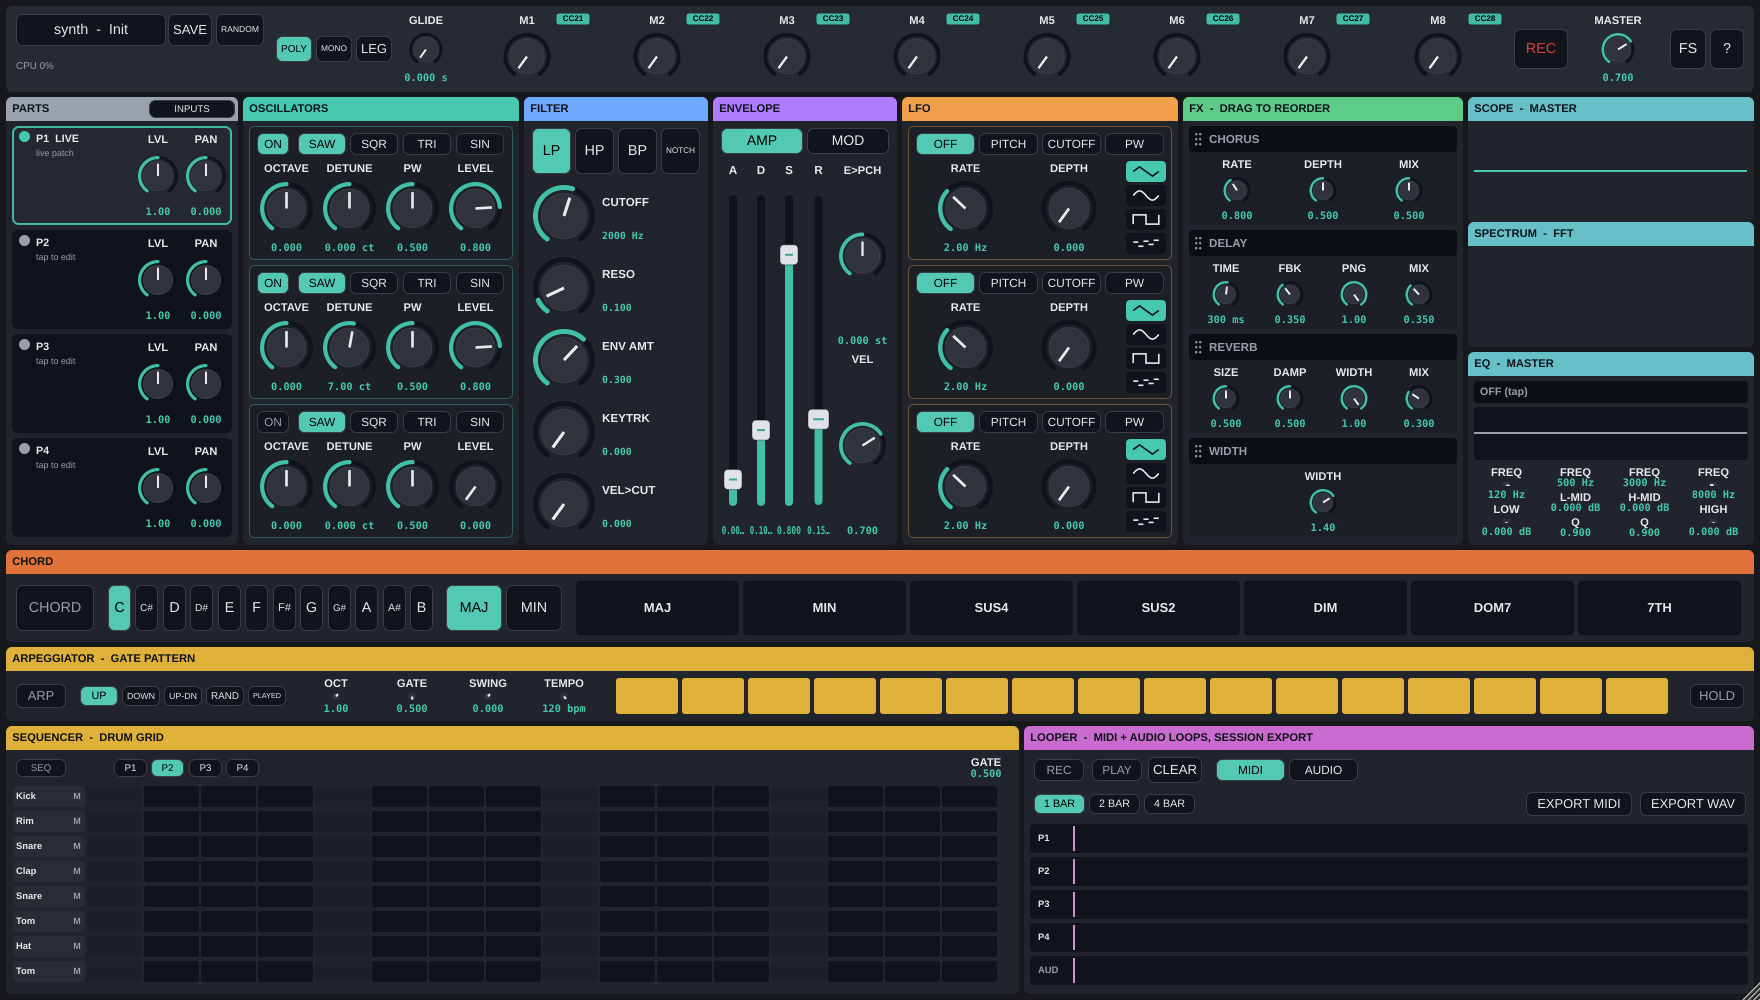
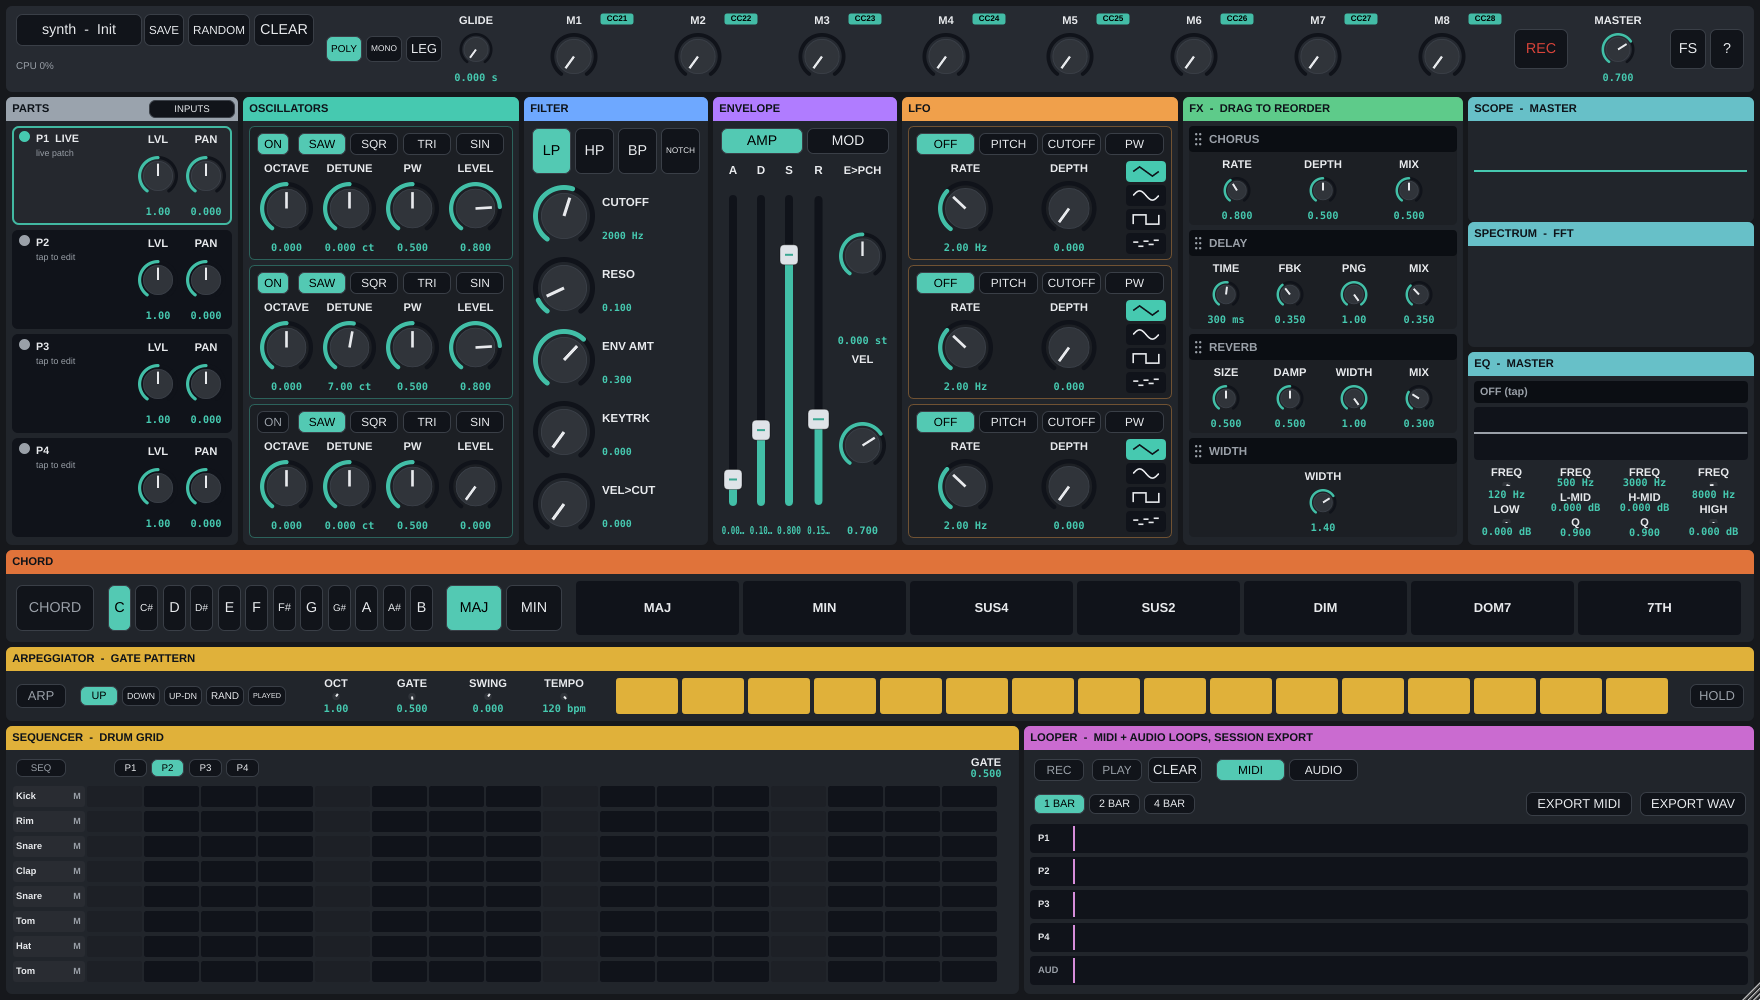
R3 Group 4.3: CLEAR button — blank the selected part to a clean sine
Adds CLEAR next to RANDOM in the top bar. It blanks the SELECTED (edit-focused)
part to a clean single sine: resets that part's sound-design params to default,
then forces osc1=sine with osc2/3 + noise + FX off. Globals, the mixer, macros and
the other parts are left untouched — same scope policy as RANDOM
(clearFocusedPartToBlank iterates soundDesignParamIDs()).

Test: CLEAR yields osc1-on sine, osc2/3/noise/FX off, while master/part-level/macro
stay put. Preset row widened to fit the fourth button.

Gate: run-all-checks 273/273 + pluginval s8 green.

diff --git a/tests/plugin/test_presets.cpp b/tests/plugin/test_presets.cpp
@@ -123,6 +123,35 @@ TEST_CASE ("randomize touches ONLY the selected part sound - mixer / EQ / macros
     REQUIRE (p.apvts.getParameter (ParamID::filterCutoff)->getValue() != Catch::Approx (cutoffBefore).margin (1e-6));
 }
 
+TEST_CASE ("CLEAR blanks the selected part to a single sine, leaving globals put", "[plugin][clear]")
+{
+    juce::ScopedJuceInitialiser_GUI juceInit;
+    VASynthProcessor p;
+    // A busy sound + dialled-in globals the player wants kept.
+    auto set = [&] (const char* id, float v) { p.apvts.getParameter (id)->setValueNotifyingHost (v); };
+    set (ParamID::osc2On, 1.0f); set (ParamID::osc3On, 1.0f); set (ParamID::noiseLevel, 0.4f);
+    set (ParamID::fxReverbOn, 1.0f); set (ParamID::fxDelayOn, 1.0f);
+    set (ParamID::masterGain, 0.42f); set (ParamID::part0Level, 0.7f); set (ParamID::macro3, 0.8f);
+    const float masterBefore = p.apvts.getParameter (ParamID::masterGain)->getValue();
+    const float levelBefore  = p.apvts.getParameter (ParamID::part0Level)->getValue();
+    const float macroBefore  = p.apvts.getParameter (ParamID::macro3)->getValue();
+
+    p.clearFocusedPartToBlank();
+
+    // A clean single sine: osc1 on + sine (last choice), everything else off.
+    REQUIRE (p.apvts.getRawParameterValue (ParamID::osc1On)->load() > 0.5f);
+    REQUIRE (p.apvts.getRawParameterValue (ParamID::osc2On)->load() < 0.5f);
+    REQUIRE (p.apvts.getRawParameterValue (ParamID::osc3On)->load() < 0.5f);
+    REQUIRE (p.apvts.getRawParameterValue (ParamID::noiseLevel)->load() < 1e-4f);
+    REQUIRE (p.apvts.getRawParameterValue (ParamID::fxReverbOn)->load() < 0.5f);
+    REQUIRE (p.apvts.getRawParameterValue (ParamID::fxDelayOn)->load() < 0.5f);
+    REQUIRE (p.apvts.getParameter (ParamID::osc1Wave)->getValue() == Catch::Approx (1.0f).margin (1e-4));
+    // Globals / mixer / macros untouched (same scope as RANDOM).
+    REQUIRE (p.apvts.getParameter (ParamID::masterGain)->getValue()  == Catch::Approx (masterBefore).margin (1e-6));
+    REQUIRE (p.apvts.getParameter (ParamID::part0Level)->getValue() == Catch::Approx (levelBefore).margin (1e-6));
+    REQUIRE (p.apvts.getParameter (ParamID::macro3)->getValue()     == Catch::Approx (macroBefore).margin (1e-6));
+}
+
 TEST_CASE ("master_gain is a performance control excluded from preset load/save", "[plugin][preset][master]")
 {
     juce::ScopedJuceInitialiser_GUI juceInit;

diff --git a/Source/UI/TopBar.h b/Source/UI/TopBar.h
@@ -53,6 +53,15 @@ public:
         };
         addAndMakeVisible (random);
 
+        clear.setButtonText ("CLEAR"); styleBtn (clear);
+        clear.onClick = [this]
+        {
+            proc.clearFocusedPartToBlank();     // blank the selected part to a clean sine
+            currentName = "Blank"; refreshTitle(); refreshMacroLabels();
+            if (restoreFocus) restoreFocus();
+        };
+        addAndMakeVisible (clear);
+
         rec.setButtonText ("REC"); styleBtn (rec);
         rec.setColour (juce::TextButton::textColourOffId, juce::Colour (0xffd8443a));
         rec.onClick = [this] { proc.postToast ("Recording lands with the looper (R3)"); if (restoreFocus) restoreFocus(); };
@@ -109,11 +118,12 @@ public:
     {
         auto tb = getLocalBounds().reduced (10, 7);
 
-        auto preset = tb.removeFromLeft (250); tb.removeFromLeft (8);
+        auto preset = tb.removeFromLeft (300); tb.removeFromLeft (8);
         auto pTop = preset.removeFromTop (34);
-        presetBtn.setBounds (pTop.removeFromLeft (150).reduced (0, 1));
-        save.setBounds   (pTop.removeFromLeft (48).reduced (2, 1));
-        random.setBounds (pTop.reduced (2, 1));
+        presetBtn.setBounds (pTop.removeFromLeft (126).reduced (0, 1));
+        save.setBounds   (pTop.removeFromLeft (44).reduced (2, 1));
+        random.setBounds (pTop.removeFromLeft (66).reduced (2, 1));
+        clear.setBounds  (pTop.reduced (2, 1));
         statusArea = preset;
 
         auto help_ = tb.removeFromRight (34); tb.removeFromRight (4);
@@ -223,7 +233,7 @@ private:
     PresetManager& presets;
     std::function<void()> restoreFocus, toggleHelp, toggleFullscreen;
 
-    juce::TextButton presetBtn, save, random, rec, full, help;
+    juce::TextButton presetBtn, save, random, clear, rec, full, help;
     juce::OwnedArray<RotaryKnob> macros;
     juce::OwnedArray<juce::ParameterAttachment> macroAtt;
     std::unique_ptr<RotaryKnob> master, glide;

diff --git a/Source/PluginProcessor.cpp b/Source/PluginProcessor.cpp
@@ -106,6 +106,23 @@ void VASynthProcessor::loadInitPreset()
     setFxOrder (def);
 }
 
+void VASynthProcessor::clearFocusedPartToBlank()
+{
+    namespace ID = ParamID;
+    auto set01 = [this] (const char* id, float v) { if (auto* p = apvts.getParameter (id)) p->setValueNotifyingHost (v); };
+    // Reset only the SELECTED part's sound-design params to default (the APVTS holds the
+    // edit-focused part's sound; globals + other parts stay put), then force a clean sine.
+    for (auto* rp : getParameters())
+        if (auto* w = dynamic_cast<juce::AudioProcessorParameterWithID*> (rp))
+            if (soundDesignParamIDs().contains (w->paramID))
+                rp->setValueNotifyingHost (rp->getDefaultValue());
+    set01 (ID::osc1On, 1.0f); set01 (ID::osc1Wave, 1.0f);          // osc1 sine (last of saw/sqr/tri/sin)
+    set01 (ID::osc2On, 0.0f); set01 (ID::osc3On, 0.0f);            // single oscillator
+    set01 (ID::noiseLevel, 0.0f);
+    set01 (ID::fxChorusOn, 0.0f); set01 (ID::fxDelayOn, 0.0f);
+    set01 (ID::fxReverbOn, 0.0f); set01 (ID::fxWidthOn, 0.0f);     // dry
+}
+
 juce::File VASynthProcessor::userMidiProfileDir()
 {
     return AppInfo::midiProfileDir();

diff --git a/Source/PluginProcessor.h b/Source/PluginProcessor.h
@@ -259,6 +259,11 @@ public:
     // Reset every parameter to its default and the FX order to 0,1,2,3 ("Init").
     void loadInitPreset();
 
+    // CLEAR (R3 Group 4): blank the SELECTED part to a clean single sine — resets its
+    // sound-design params to default, forces osc1=sine (osc2/3 + noise + FX off). Globals,
+    // the mixer and the other parts are untouched (same scope policy as RANDOM).
+    void clearFocusedPartToBlank();
+
     // -- macros (R2) ----------------------------------------------------------
     // Each macro (0..7) can route to one target parameter; the value knob then drives
     // that parameter (applied on the message thread by the editor). The map persists in